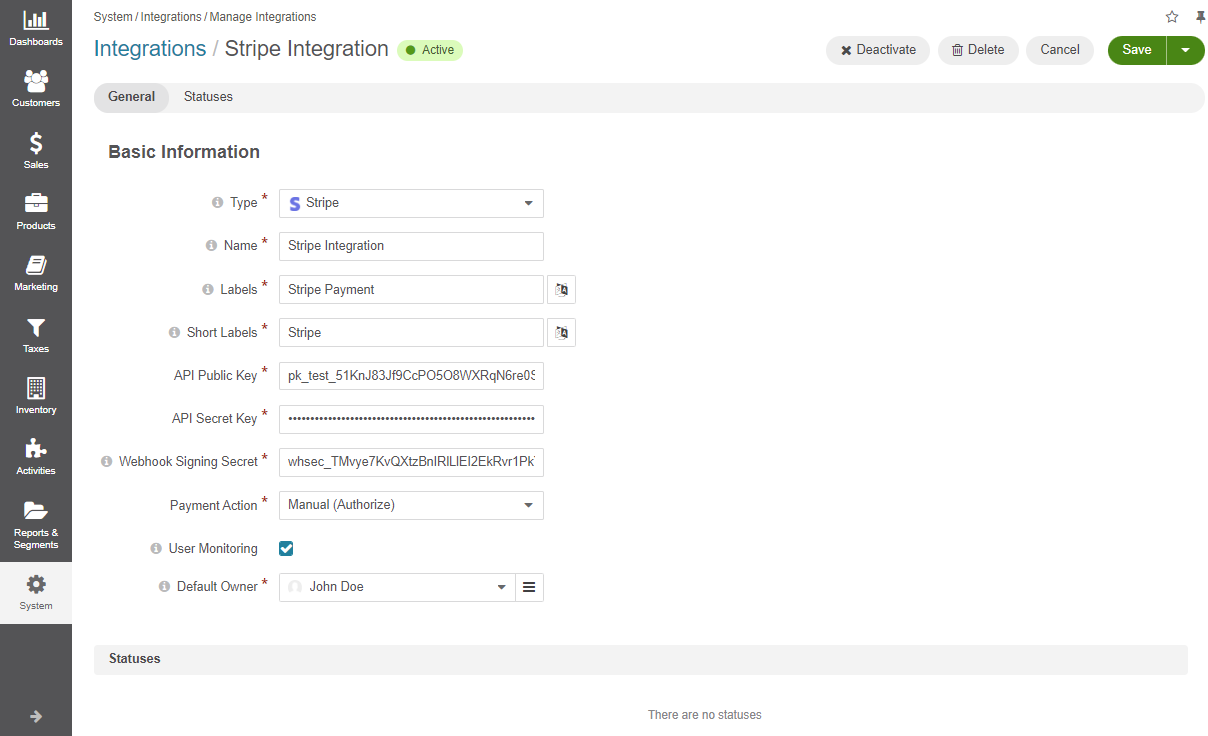
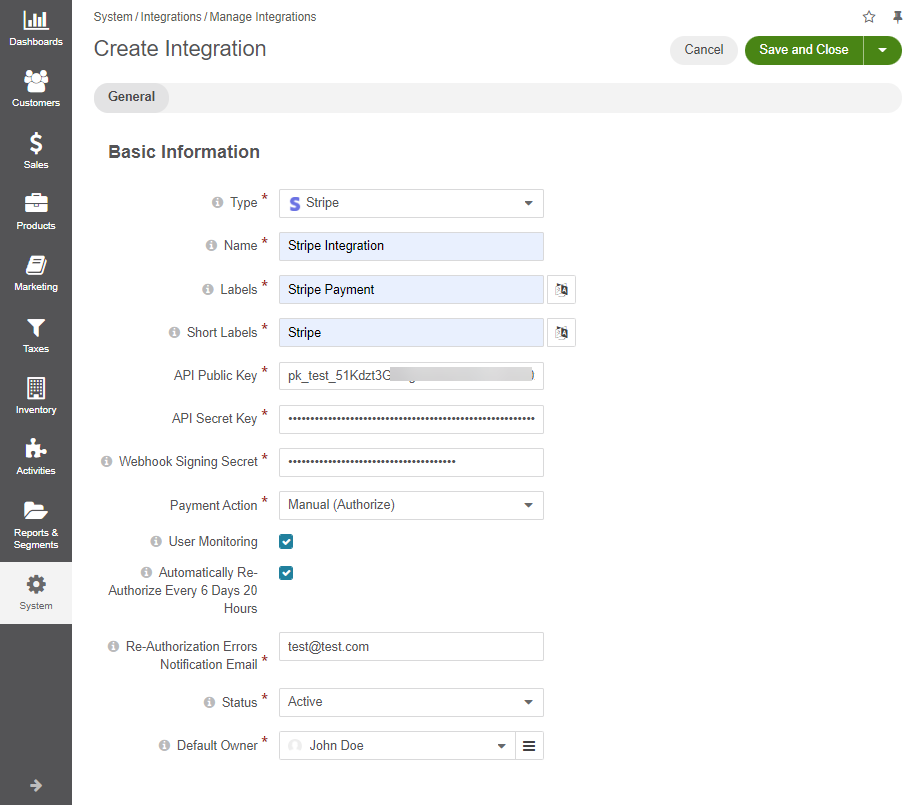
DOC-1934: Configure Multiple Shipping Settings (m) (#34364)

diff --git a/user/back-office/system/integrations/payment-integration/stripe/index.rst b/user/back-office/system/integrations/payment-integration/stripe/index.rst
@@ -1,23 +1,21 @@
-:oro_documentation_types: OroCRM, OroCommerce, Extension
+:oro_documentation_types: OroCRM, OroCommerce
 
 .. _user-guide--payment--payment-providers-stripe--overview:
 
 Manage Stripe Payment Service in the Back-Office
 ================================================
 
-.. important:: This feature is incomplete and is scheduled for release in version 5.1 LTS. See our :ref:`Release Process <doc--community--release>` page for more information on release dates and support cycle.
-
 .. hint:: This section is part of the :ref:`Payment Configuration <user-guide--payment>` topic that provides a general understanding of the payment concept in OroCommerce.
 
-.. hint:: The feature requires extension, so visit |Oro Extensions Store| to download the Stripe extension and then use the composer to :ref:`install the extension to your application <cookbook-extensions-composer>`.
-
-Stripe is a payment service extension that helps accept online payments from customers in the OroCommerce storefront and manage all transactions in the OroCommerce back-office. It also provides a solution to expose suspicious and fraudulent behavior and fight it on the website.
+Stripe is a payment service provider that helps accept online payments from customers in the OroCommerce storefront and manage all transactions in the OroCommerce back-office. It also provides a solution to expose suspicious and fraudulent behavior and fight it on the website. Stripe also supports order splitting, enabling you to capture, cancel, or refund (fully or partially)  payments for each sub-order separately.
 
 
 Integration Prerequisites
 -------------------------
 
-To start using Stripe with the OroCommerce application, make sure to:
+.. note:: Stripe Integration, comes as a separate OroCommerce package and requires :ref:`installation <cookbook-extensions-composer>` of the |Stripe Integration| package.
+
+To start using Stripe with the OroCommerce application:
 
 1. Register with |Stripe| to receive the test credentials.
 
@@ -65,7 +63,7 @@ To configure the integration between Stripe and OroCommerce, follow the steps ou
 
    * **Payment Actions** --- Select one of the options for credit cards:
 
-      - *Manual (Authorize)* --- The payment gateway checks with the cardholder's issuing bank that the submitted card is valid and that there are sufficient funds to cover the transaction. The required amount is placed on hold on the card but not yet charged. When you click **Capture** in the order details (Sales > Orders), the customer is charged the given amount. Payment status changes from **Payment Authorized** to **Paid in Full**.
+      - *Manual (Authorize)* --- The payment gateway checks with the cardholder's issuing bank that the submitted card is valid and that there are sufficient funds to cover the transaction. The required amount is placed on hold on the card **for 7 days** but not yet charged. When you click **Capture** in the order details (Sales > Orders), the customer is charged the given amount. Payment status changes from **Payment Authorized** to **Paid in Full**. If you do not capture the funds within 7 days, the funds are returned to the customer, and the payment status changes to **Canceled**.
 
          .. image:: /user/img/system/integrations/stripe/authorize-method.png
             :alt: Payment is authorized and must be captured to charge the amount
@@ -76,12 +74,14 @@ To configure the integration between Stripe and OroCommerce, follow the steps ou
             :alt: Payment is captured automatically
 
    * **User Monitoring** --- Select the option to enable Stripe to fight fraud by detecting suspicious behavior. When enabled, the Stripe.js script is loaded on all storefront pages to provide real-time fraud protection.
+   * **Automatically Re-Authorize Every 6 Days 20 Hours** --- By default, you need to capture the reserved funds within 7 days, otherwise, the funds are released. Select the option to enable Oro to automatically re-authorize the payments placed on hold every 6 days 20 hours to prevent payment cancellation if the authorization expires. Keep in mind that expired payments can only be re-authorized once. If re-authorization fails, such payment transaction cannot be re-authorized again.
+   * **Re-Authorization Errors Notification Email** --- The email address which is used to send notifications on failed re-authorization attempts.
    * **Status** --- Set the status to *Active* to enable the integration.
    * **Default Owner** - A user who is responsible for this integration and manages it.
 
 4. Click **Save and Close**.
 
-.. important:: Once the integration with Stripe is created, the next step is to :ref:`set up a payment rule <sys--payment-rules>` under **System > Payment Rules** and add your integration to it to display this method to the customers at the checkout.
+.. important:: Once the integration with Stripe is created, the next step is to :ref:`set up a payment rule <sys--payment-rules>` under **System > Payment Rules** and add your integration to it to display this method to the customers at checkout.
 
 
 Checkout with Stripe
@@ -99,6 +99,46 @@ The system assigns a reference code to each submitted order. The code is used to
 .. image:: /user/img/system/integrations/stripe/stripe-reference-code.png
    :alt: Illustrating how to find the order on the Stripe side using the reference code
 
+Sub-Order Checkout with Stripe
+------------------------------
+
+If the :ref:`order split <user-guide--system-configuration--commerce-sales-multi-shipping>` is enabled for the application, then each sub-order is processed separately by Stripe. You can charge, cancel, or refund (full or partially) each individual sub-order independently from their primary order.
+
+A customer must enter a card number, expiration date, CVC, and a ZIP code (if required) to be able to process the payment via the Stripe service.
+
+.. image:: /user/img/system/integrations/stripe/sub-order-checkout.png
+   :alt: A sample checkout with the order split to two sub-orders
+
+Once submitted, the system splits the order to the respective sub-orders, assigning them the corresponding reference codes. The codes are used to identify the order on the Stripe side. You can find the details on the primary or sub-order details page, under the **Payment History** menu.
+
+.. image:: /user/img/system/integrations/stripe/sub-order-reference-codes.png
+   :alt: Highlighting reference codes for both primary order and its sub-orders
+
+To **capture** an authorized payment:
+
+1. From the primary order details page --- Select the sub-order tab under the **Sub-Orders Payment History** menu and click |IcCapture|.
+2. From the sub-order details page --- Click |IcCapture| at the end of the row under the **Payment History** menu.
+
+
+To **cancel** an authorized payment:
+
+1. From the primary order details page --- Select the sub-order tab under the **Sub-Orders Payment History** menu and click **X**.
+2. From the sub-order details page --- Click **X** at the end of the row under the **Payment History** menu.
+
+
+To **refund** (partially or fully) any successful payment:
+
+1. Find the payment that you want to refund.
+2. Click |IcShare| at the end of the row to open the refund dialog.
+3. By default, you’ll issue a full refund. For a partial refund, enter a different refund amount.
+4. Provide an internal note with the reason for the refund under the **Notes** section.
+5. Select another refund reason from the dropdown. It will be recorded on the Stripe side.
+6. Click **Yes. Refund Payment**.
+
+.. image:: /user/img/system/integrations/stripe/payment-refund-flow.png
+   :alt: Illustrating the refund flow in steps
+
+You can issue more than one refund, but you cannot refund a total greater than the original charge amount.
 
 
 
@@ -114,4 +154,7 @@ The system assigns a reference code to each submitted order. The code is used to
    :start-after: begin
 
 .. include:: /include/include-links-dev.rst
+   :start-after: begin
+
+.. include:: /include/include-images.rst
    :start-after: begin

diff --git a/user/back-office/system/user-management/organizations/org-configuration/commerce/sales/organization-multi-shipping.rst b/user/back-office/system/user-management/organizations/org-configuration/commerce/sales/organization-multi-shipping.rst
@@ -1,0 +1,49 @@
+:oro_documentation_types: OroCommerce
+:oro_show_local_toc: false
+
+.. _user-guide--system-configuration--commerce-sales-multi-shipping-org:
+
+
+Configure Multiple Shipping Settings per Organization
+=====================================================
+
+For standard :ref:`multi-step checkout <checkout-guide-multi-page>`, you configure different line item grouping for the storefront checkout, as well as enable storefront customers to select different shipping methods for different line items. In addition, you can enable sub-orders to be created for each group of line items.
+
+.. image:: /user/img/system/config_commerce/sales/multi-shipping-storefront.png
+   :alt: Displaying order line items grouped by category at checkout
+
+You can also configure this functionality :ref:`globally <user-guide--system-configuration--commerce-sales-multi-shipping>` and :ref:`per website <user-guide--system-configuration--commerce-sales-multi-shipping-website>`.
+
+To configure multi shipping per organization:
+
+1. Navigate to **System > User Management > Organizations** in the main menu.
+2. For the necessary organization, hover over the |IcMore| **More Options** menu to the right of the necessary organization and click |IcConfig| to start editing the configuration.
+3. Select **Commerce > Sales > Multi Shipping Options** in the menu to the left.
+
+   .. note::
+       For faster navigation between the configuration menu sections, use :ref:`Quick Search <user-guide--system-configuration--quick-search>`.
+
+4. Clear the **Use System** checkbox to change the system-wide settings.
+
+5. In the **General Options**, select **Enable Shipping Method Selection Per Line Item** to activate the multi-shipping functionality and display other related options.
+
+6. Once you enable multi shipping, you are prompted to create the related :ref:`multi shipping integration <doc--integrations--multi-shipping>` to allow customers select a preferred shipping method at checkout. To simplify the manual integration creation, click the **Create Multi Shipping Integration** button to create it automatically. After the integration is created, the note disappears.
+
+.. image:: /user/img/system/config_commerce/sales/multi-shipping-button-org.png
+   :alt: Global multi shipping configuration settings and a button for the automatic integration creation
+
+7. In the **Line Items Grouping Options**, configure the following options:
+
+   * **Enable Grouping Of Line Items During Checkout** --- When enabled, line items during checkout are displayed in groups divided by specific criteria (e.g., ID, category, brand, etc). This option may affect shipping rules and discount calculations (see other configuration options).
+
+     * *Group Line Items By* --- Select if you want to group line items per ID, owner, category, brand, or parent product.
+     * *Create Sub-Orders For Each Group* --- When enabled, in addition to the main order, the system will create respective sub-orders for each group of line items in the back-office. Storefront customers, however, will see only primary orders in their order history.
+     * *Show Sub-Orders In Order History* --- When enabled, customers can see only sub-orders in their order history. Primary orders will be hidden.
+     * *Show Main Orders In Order History* --- When enabled, customers can see both the primary order and its sub-orders in their order history.
+
+8. Click **Save Settings**.
+
+.. important:: Once the integration is created, the next step is to :ref:`set up a shipping rule <sys--shipping-rules>` under **System > Shipping Rules** and add your integration to it to enable customers to select the desired shipping method at checkout.
+
+.. include:: /include/include-images.rst
+   :start-after: begin

diff --git a/user/back-office/system/websites/web-configuration/commerce/sales/website-multi-shipping.rst b/user/back-office/system/websites/web-configuration/commerce/sales/website-multi-shipping.rst
@@ -1,0 +1,49 @@
+:oro_documentation_types: OroCommerce
+:oro_show_local_toc: false
+
+.. _user-guide--system-configuration--commerce-sales-multi-shipping-website:
+
+
+Configure Multiple Shipping Settings per Website
+================================================
+
+For standard :ref:`multi-step checkout <checkout-guide-multi-page>`, you configure different line item grouping for the storefront checkout, as well as enable storefront customers to select different shipping methods for different line items. In addition, you can enable sub-orders to be created for each group of line items.
+
+.. image:: /user/img/system/config_commerce/sales/multi-shipping-storefront.png
+   :alt: Displaying order line items grouped by category at checkout
+
+You can also configure this functionality :ref:`globally <user-guide--system-configuration--commerce-sales-multi-shipping>` and :ref:`per organization <user-guide--system-configuration--commerce-sales-multi-shipping-org>`.
+
+To configure multi shipping per website:
+
+1. Navigate to **System > Websites** in the main menu.
+2. For the necessary website, hover over the |IcMore| **More Options** menu to the right of the necessary website and click |IcConfig| to start editing the configuration.
+3. Select **Commerce > Sales > Multi Shipping Options** in the menu to the left.
+
+   .. note::
+       For faster navigation between the configuration menu sections, use :ref:`Quick Search <user-guide--system-configuration--quick-search>`.
+
+4. Clear the **Use Organization** checkbox to change the organization-wide settings.
+
+5. In the **General Options**, select **Enable Shipping Method Selection Per Line Item** to activate the multi-shipping functionality and display other related options.
+
+6. Once you enable multi shipping, you are prompted to create the related :ref:`multi shipping integration <doc--integrations--multi-shipping>` to allow customers select a preferred shipping method at checkout. To simplify the manual integration creation, click the **Create Multi Shipping Integration** button to create it automatically. After the integration is created, the note disappears.
+
+.. image:: /user/img/system/config_commerce/sales/multi-shipping-button-website.png
+   :alt: Global multi shipping configuration settings and a button for the automatic integration creation
+
+7. In the **Line Items Grouping Options**, configure the following options:
+
+   * **Enable Grouping Of Line Items During Checkout** --- When enabled, line items during checkout are displayed in groups divided by specific criteria (e.g., ID, category, brand, etc). This option may affect shipping rules and discount calculations (see other configuration options).
+
+     * *Group Line Items By* --- Select if you want to group line items per ID, owner, category, brand, or parent product.
+     * *Create Sub-Orders For Each Group* --- When enabled, in addition to the main order, the system will create respective sub-orders for each group of line items in the back-office. Storefront customers, however, will see only primary orders in their order history.
+     * *Show Sub-Orders In Order History* --- When enabled, customers can see only sub-orders in their order history. Primary orders will be hidden.
+     * *Show Main Orders In Order History* --- When enabled, customers can see both the primary order and its sub-orders in their order history.
+
+8. Click **Save Settings**.
+
+.. important:: Once the integration is created, the next step is to :ref:`set up a shipping rule <sys--shipping-rules>` under **System > Shipping Rules** and add your integration to it to enable customers to select the desired shipping method at checkout.
+
+.. include:: /include/include-images.rst
+   :start-after: begin

diff --git a/user/back-office/system/configuration/commerce/sales/global-multi-shipping.rst b/user/back-office/system/configuration/commerce/sales/global-multi-shipping.rst
@@ -1,0 +1,48 @@
+:oro_documentation_types: OroCommerce
+:oro_show_local_toc: false
+
+.. _user-guide--system-configuration--commerce-sales-multi-shipping:
+
+
+Configure Global Multiple Shipping Settings
+===========================================
+
+For standard :ref:`multi-step checkout <checkout-guide-multi-page>`, you can configure different line item grouping for the storefront checkout, as well as enable storefront customers to select different shipping methods for different line items. In addition, you can enable sub-orders to be created for each group of line items.
+
+.. image:: /user/img/system/config_commerce/sales/multi-shipping-storefront.png
+   :alt: Displaying order line items grouped by category at checkout
+
+You can also configure this functionality :ref:`per organization <user-guide--system-configuration--commerce-sales-multi-shipping-org>` and :ref:`per website <user-guide--system-configuration--commerce-sales-multi-shipping-website>`.
+
+To configure multi shipping globally:
+
+1. In the main menu, navigate to **System > Configuration**.
+2. Select **Commerce > Sales > Multi Shipping Options** in the menu to the left.
+
+   .. note::
+     For faster navigation between the configuration menu sections, use :ref:`Quick Search <user-guide--system-configuration--quick-search>`.
+
+3. To update any of the options, clear the **Use Default** checkbox first.
+
+4. In the **General Options**, select **Enable Shipping Method Selection Per Line Item** to activate the multi-shipping functionality and display other related options.
+
+5. Once you enable multi shipping, you are prompted to create the related :ref:`multi shipping integration <doc--integrations--multi-shipping>` to allow customers select a preferred shipping method at checkout. To simplify the manual integration creation, click the **Create Multi Shipping Integration** button to create it automatically. After the integration is created, the note disappears.
+
+.. image:: /user/img/system/config_commerce/sales/multi-shipping-button.png
+   :alt: Global multi shipping configuration settings and a button for the automatic integration creation
+
+6. In the **Line Items Grouping Options**, configure the following options:
+
+   * **Enable Grouping Of Line Items During Checkout** --- When enabled, line items during checkout are displayed in groups divided by specific criteria (e.g., ID, category, brand, etc). This option may affect shipping rules and discount calculations (see other configuration options).
+
+     * *Group Line Items By* --- Select if you want to group line items per ID, owner, category, brand, or parent product.
+     * *Create Sub-Orders For Each Group* --- When enabled, in addition to the main order, the system will create respective sub-orders for each group of line items in the back-office. Storefront customers, however, will see only primary orders in their order history.
+     * *Show Sub-Orders In Order History* --- When enabled, customers can see only sub-orders in their order history. Primary orders will be hidden.
+     * *Show Main Orders In Order History* --- When enabled, customers can see both the primary order and its sub-orders in their order history.
+
+.. image:: /user/img/system/config_commerce/sales/multi-shipping-options-global.png
+   :alt: Global multi shipping configuration settings
+
+7. Click **Save Settings**.
+
+.. important:: Once the integration is created, the next step is to :ref:`set up a shipping rule <sys--shipping-rules>` under **System > Shipping Rules** and add your integration to it to enable customers to select the desired shipping method at checkout.

diff --git a/user/back-office/system/integrations/shipping-integration/multi-shipping.rst b/user/back-office/system/integrations/shipping-integration/multi-shipping.rst
@@ -1,0 +1,35 @@
+:oro_documentation_types: OroCommerce
+
+.. _doc--integrations--multi-shipping:
+
+Configure Multiple Shipping Integration in the Back-Office
+==========================================================
+
+.. hint::
+        This section is part of the :ref:`Shipping Configuration <admin-guide--shipping>` topic that provides a general understanding of the shipping concept in OroCommerce.
+
+To set up the multi shipping integration in OroCommerce:
+
+1. Make sure to enable the :ref:`Multi Shipping <user-guide--system-configuration--commerce-sales-multi-shipping>` configuration option in the system configuration under **Commerce > Sales > Multi Shipping Options**.
+
+Then:
+
+2. Navigate to **System > Integrations > Manage Integrations** in the main menu.
+3. Click **Create Integration** and select Multi Shipping Cost as an integration type.
+
+   .. image:: /user/img/system/integrations/multi-shipping-integration.png
+      :alt: Multi shipping integration form
+
+4. Provide the shipping method name that is shown as an option for shipping configuration in the OroCommerce back-office.
+5. Set the status to **Active**.
+6. Select the **Default Owner**. The field is already populated with the name of the user creating the integration. You can change this value to a different user if necessary
+7. Click **Save and Close**.
+
+.. important:: Once the integration is created, the next step is to :ref:`set up a shipping rule <sys--shipping-rules>` under **System > Shipping Rules** and add your integration to it to enable customers to select the desired shipping method at checkout.
+
+
+**Related Topics**
+
+* :ref:`Shipping Configuration Concept Guide <admin-guide--shipping>`
+* :ref:`System Shipping Configuration <configuration--guide--commerce--configuration--shipping>`
+* :ref:`Shipping Rules Configuration <sys--shipping-rules>`

diff --git a/backend/setup/upgrade-to-new-version.rst b/backend/setup/upgrade-to-new-version.rst
@@ -91,12 +91,12 @@ To retrieve a new version and upgrade your Oro application instance, execute the
 
     .. note::
 
-       To speed up the update process, consider using ``--schedule-search-reindexation`` or ``--skip-search-reindexation`` option:
+      To speed up the update process, consider using ``--schedule-search-reindexation`` or ``--skip-search-reindexation`` option:
 
-       * ``--schedule-search-reindexation`` --- postpone the search reindexation process until the message queue consumer is started (on step 12 below).
-       * ``--skip-search-reindexation`` --- skip search reindexation. Later, you can start it manually using commands `oro:search:reindex` to update the search index for the specified entities and `oro:website-search:reindex` to rebuild the storefront search index.
-        
-         See :ref:`Search Index: Indexation Process <search_index_overview--indexation-process>`.
+      * ``--schedule-search-reindexation`` --- postpone search reindexation process until the message queue consumer is started (on step 12 below).
+      * ``--skip-search-reindexation`` --- skip search reindexation. Later, you can start it manually using commands `oro:search:reindex` to update search index for the specified entities and `oro:website-search:reindex` to rebuild storefront search index.
+
+      See :ref:`Search Index: Indexation Process <search_index_overview--indexation-process>`.
 
     .. note::
 

diff --git a/user/back-office/system/configuration/commerce/sales/index.rst b/user/back-office/system/configuration/commerce/sales/index.rst
@@ -12,6 +12,7 @@ Learn how to enable the quick order form, promotions, guest shopping lists, esta
 * :ref:`Request for Quote <configuration--guide--commerce--configuration--sales-rfq>`
 * :ref:`Checkout <user-guide--system-configuration--commerce-sales-checkout>`
 * :ref:`Order History (Open Orders) <configuration--guide--commerce--configuration--sales-order-history>`
+* :ref:`Multi Shipping Options <user-guide--system-configuration--commerce-sales-multi-shipping>`
 * :ref:`Contacts <sys--conf--commerce--sales--contacts>`
 * :ref:`Quotes <sys--conf--commerce--guest--enable--guest_quotes>`
 * :ref:`Shopping List <configuration-shopping-list>`
@@ -25,6 +26,7 @@ Learn how to enable the quick order form, promotions, guest shopping lists, esta
    Request for Quote <rfq>
    Checkout <global-checkout-config>
    Order History <open-orders>
+   Multiple Shipping <global-multi-shipping>
    Contacts <contacts>
    Quotes <guest-quote>
    Shopping List <global-shopping-list>

diff --git a/user/concept-guides/payment-configuration/index.rst b/user/concept-guides/payment-configuration/index.rst
@@ -62,9 +62,7 @@ OroCommerce works with the following payment methods:
 
 * :ref:`Stripe <user-guide--payment--payment-providers-stripe--overview>`
 
-Stripe is an integrated suite of payment products that powers online payments and help companies detect and fight the fraud on the website.
-
-  .. important:: This feature is incomplete and is scheduled for release in version 5.1 LTS. See our :ref:`Release Process <doc--community--release>` page for more information on release dates and support cycle.
+Stripe is an integrated suite of payment products that powers online payments and help companies detect and fight the fraud on the website. Stripe also supports order splitting, enabling you to capture, cancel, or refund (full or partially)  payments for each sub-order separately.
 
 Payment Rules
 -------------

diff --git a/user/back-office/system/integrations/shipping-integration/dpd.rst b/user/back-office/system/integrations/shipping-integration/dpd.rst
@@ -79,7 +79,7 @@ Details of all :ref:`orders <user-guide--sales--orders>` submitted from the OroC
      :alt: Requesting dpd shipping label on the order view page
      :align: center
 
-* To request a new shipping label for the same package, click **Restransmit Request for DPD shipping label**. In this case, old data is wiped and substituted.
+* To request a new shipping label for the same package, click **Retransmit Request for DPD shipping label**. In this case, old data is wiped and substituted.
 
 * To download the shipping label, open the **Additional Information** tab on the order view page. You will find a .pdf attachment with the label positioned in the way you specified in the integration configuration.
 

diff --git a/backend/setup/post-install/content-restriction.rst b/backend/setup/post-install/content-restriction.rst
@@ -19,8 +19,7 @@ There are two ways to do it:
 
 Create an app.yml file in a bundle of your choice, and change the content restrictions' mode.
 
-.. hint::
-         See :ref:`Add application configuration settings from any bundle <bundle-docs-platform-platform-bundle-add-config-settings>` for more information on adding settings to the application configuration from your bundle.
+.. hint:: See :ref:`Add application configuration settings from any bundle <bundle-docs-platform-platform-bundle-add-config-settings>` for more information on adding settings to the application configuration from your bundle.
 
 In the example below, `secure` mode has been changed to `selective`:
 

diff --git a/user/back-office/system/integrations/shipping-integration/index.rst b/user/back-office/system/integrations/shipping-integration/index.rst
@@ -18,6 +18,7 @@ Out-of-the-box, you can create an integration with the following third-party pro
 * :ref:`UPS <doc--integrations--ups>`
 * :ref:`FedEx <doc--integrations--fedex>`
 * :ref:`DPD <doc--integrations--dpd>`
+* :ref:`Multiple Shipping <doc--integrations--multi-shipping>`
 
 .. hint:: Check out |OroCommerce's Extensions Store| to download other shipping services that you can pair with your OroCommerce applications.
 
@@ -65,3 +66,4 @@ The shipping methods created due to this integration are no longer usable in Oro
    UPS Shipping Integration <ups>
    FedEx Shipping Integration <fedex>
    DPD Shipping Integration <dpd>
+   Multiple Shipping <multi-shipping>

diff --git a/backend/extension/install-extension.rst b/backend/extension/install-extension.rst
@@ -45,10 +45,10 @@ Then, install the extension's Composer package using the Composer ``require`` co
 
     $ composer require <extension name> --prefer-dist --update-no-dev
 
-    .. note:: Find the required extension name on the extension view page on the Oro Extensions Store website.
+.. note:: Find the required extension name on the extension view page on the Oro Extensions Store website.
 
-            .. image:: /img/backend/extension/extension_name.png
-               :alt: Classes of OroImportExportBundle
+          .. image:: /img/backend/extension/extension_name.png
+             :alt: Classes of OroImportExportBundle
 
 Next, remove old cache:
 
